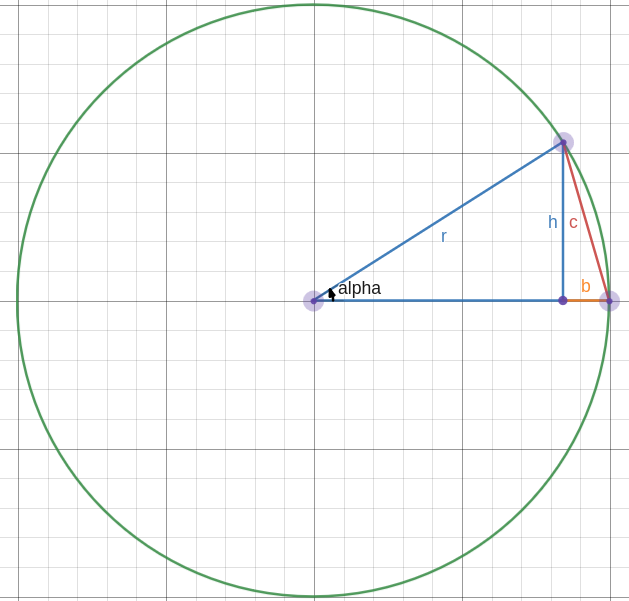
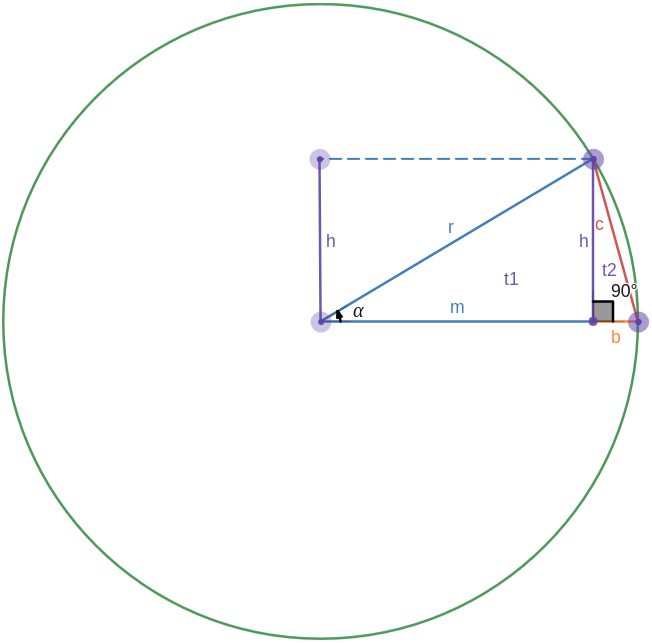
mis à jour la doc

diff --git a/README.md b/README.md
@@ -1,8 +1,22 @@
-# cercle
-on calcule le perimetre du cercle
+# Approximation du périmètre du cercle
+On calcule le périmetre du cercle.
 
 ## Méthode
 
-On *coupe* le cercle en tranches.....
+On divise le cercle en $n$ tranches. Chaque tranche correspond à un angle $\alpha$ de $\frac{2\pi}{n}$.
+
 
 ![diagram](resources/diagram.png)
+
+Selon le théorème de Pythagore appliquéau triangle $t2$:
+$$c=\sqrt{b^2+h^2}$$
+Sachant que:
+$$h=\sin(\alpha)\times r$$
+Et:
+$$b=r-m$$
+$$m=\cos(\alpha)\times r$$
+$$\alpha= \frac{2\pi}{n}$$
+
+L'approximation du périmètre du cercle est alors :
+
+$$P \approx c \times n$$
